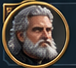
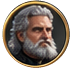
Cut the lords' portraits to their rings
The four portraits on the Lords page were squares of the painted panel: the
dark ground behind the ring and the panel's gold corner bracket came with
each face and showed on every row plate. Each is masked to its painted ring
now, and the king's keeps the crown standing on its ring. The slicer takes a
list of mask shapes and keeps their union for it.

Claude-Session: https://claude.ai/code/session_01KuyHqM4MRkuP6XbYBFW86e

diff --git a/scripts/slice-reference.py b/scripts/slice-reference.py
@@ -21,6 +21,7 @@ Manifest:
                      # at the top (glow, a crest) as it is down the sides
                "mask": {"type": "chamfer", "size": 6} | {"type": "polygon", "points": [[x,y],...]}
                      | {"type": "ellipse", "box": [x0,y0,x1,y1]}, optionally with "feather": px
+                     | a list of those, which keeps their union
                      # alpha 0 outside; points and box are relative to the crop
                "scale": [w, h]                      # optional: resize the result (LANCZOS)
   } ] }
@@ -112,7 +113,9 @@ def apply_hollow(im, inset):
     return Image.fromarray(arr, 'RGBA')
 
 def apply_mask(im, mask):
-    """Clears everything outside a chamfer or polygon.
+    """Clears everything outside a chamfer, polygon or ellipse -- or outside
+    all of a list of them, which keeps their union (a portrait's ring and the
+    crown standing on it).
 
     The mask is drawn at four times the crop's size and averaged down, so a
     diagonal edge -- a badge's chamfered corner -- is anti-aliased instead of
@@ -120,17 +123,20 @@ def apply_mask(im, mask):
     """
     ss = 4
     im = im.convert('RGBA'); w, h = im.size; m = Image.new('L', (w * ss, h * ss), 0); d = ImageDraw.Draw(m)
-    if mask['type'] == 'ellipse':
-        x0, y0, x1, y1 = mask['box']; d.ellipse([x0 * ss, y0 * ss, x1 * ss, y1 * ss], fill=255)
-    else:
-        if mask['type'] == 'chamfer':
-            s = mask['size']; pts = [(s, 0), (w - s, 0), (w, s), (w, h - s), (w - s, h), (s, h), (0, h - s), (0, s)]
-        else: pts = [tuple(p) for p in mask['points']]
+    shapes = mask if isinstance(mask, list) else [mask]
+    for sh in shapes:
+        if sh['type'] == 'ellipse':
+            x0, y0, x1, y1 = sh['box']; d.ellipse([x0 * ss, y0 * ss, x1 * ss, y1 * ss], fill=255)
+            continue
+        if sh['type'] == 'chamfer':
+            s = sh['size']; pts = [(s, 0), (w - s, 0), (w, s), (w, h - s), (w - s, h), (s, h), (0, h - s), (0, s)]
+        else: pts = [tuple(p) for p in sh['points']]
         d.polygon([(x * ss, y * ss) for x, y in pts], fill=255)
-    if mask.get('feather'):
+    feather = max(float(sh.get('feather', 0)) for sh in shapes)
+    if feather:
         # A soft edge, for a mask that cuts through glow rather than along a rim.
         from PIL import ImageFilter
-        m = m.filter(ImageFilter.GaussianBlur(mask['feather'] * ss))
+        m = m.filter(ImageFilter.GaussianBlur(feather * ss))
     m = m.resize((w, h), Image.BOX)
     alpha = np.minimum(np.asarray(im)[..., 3], np.asarray(m)); arr = np.asarray(im).copy(); arr[..., 3] = alpha
     return Image.fromarray(arr, 'RGBA')
